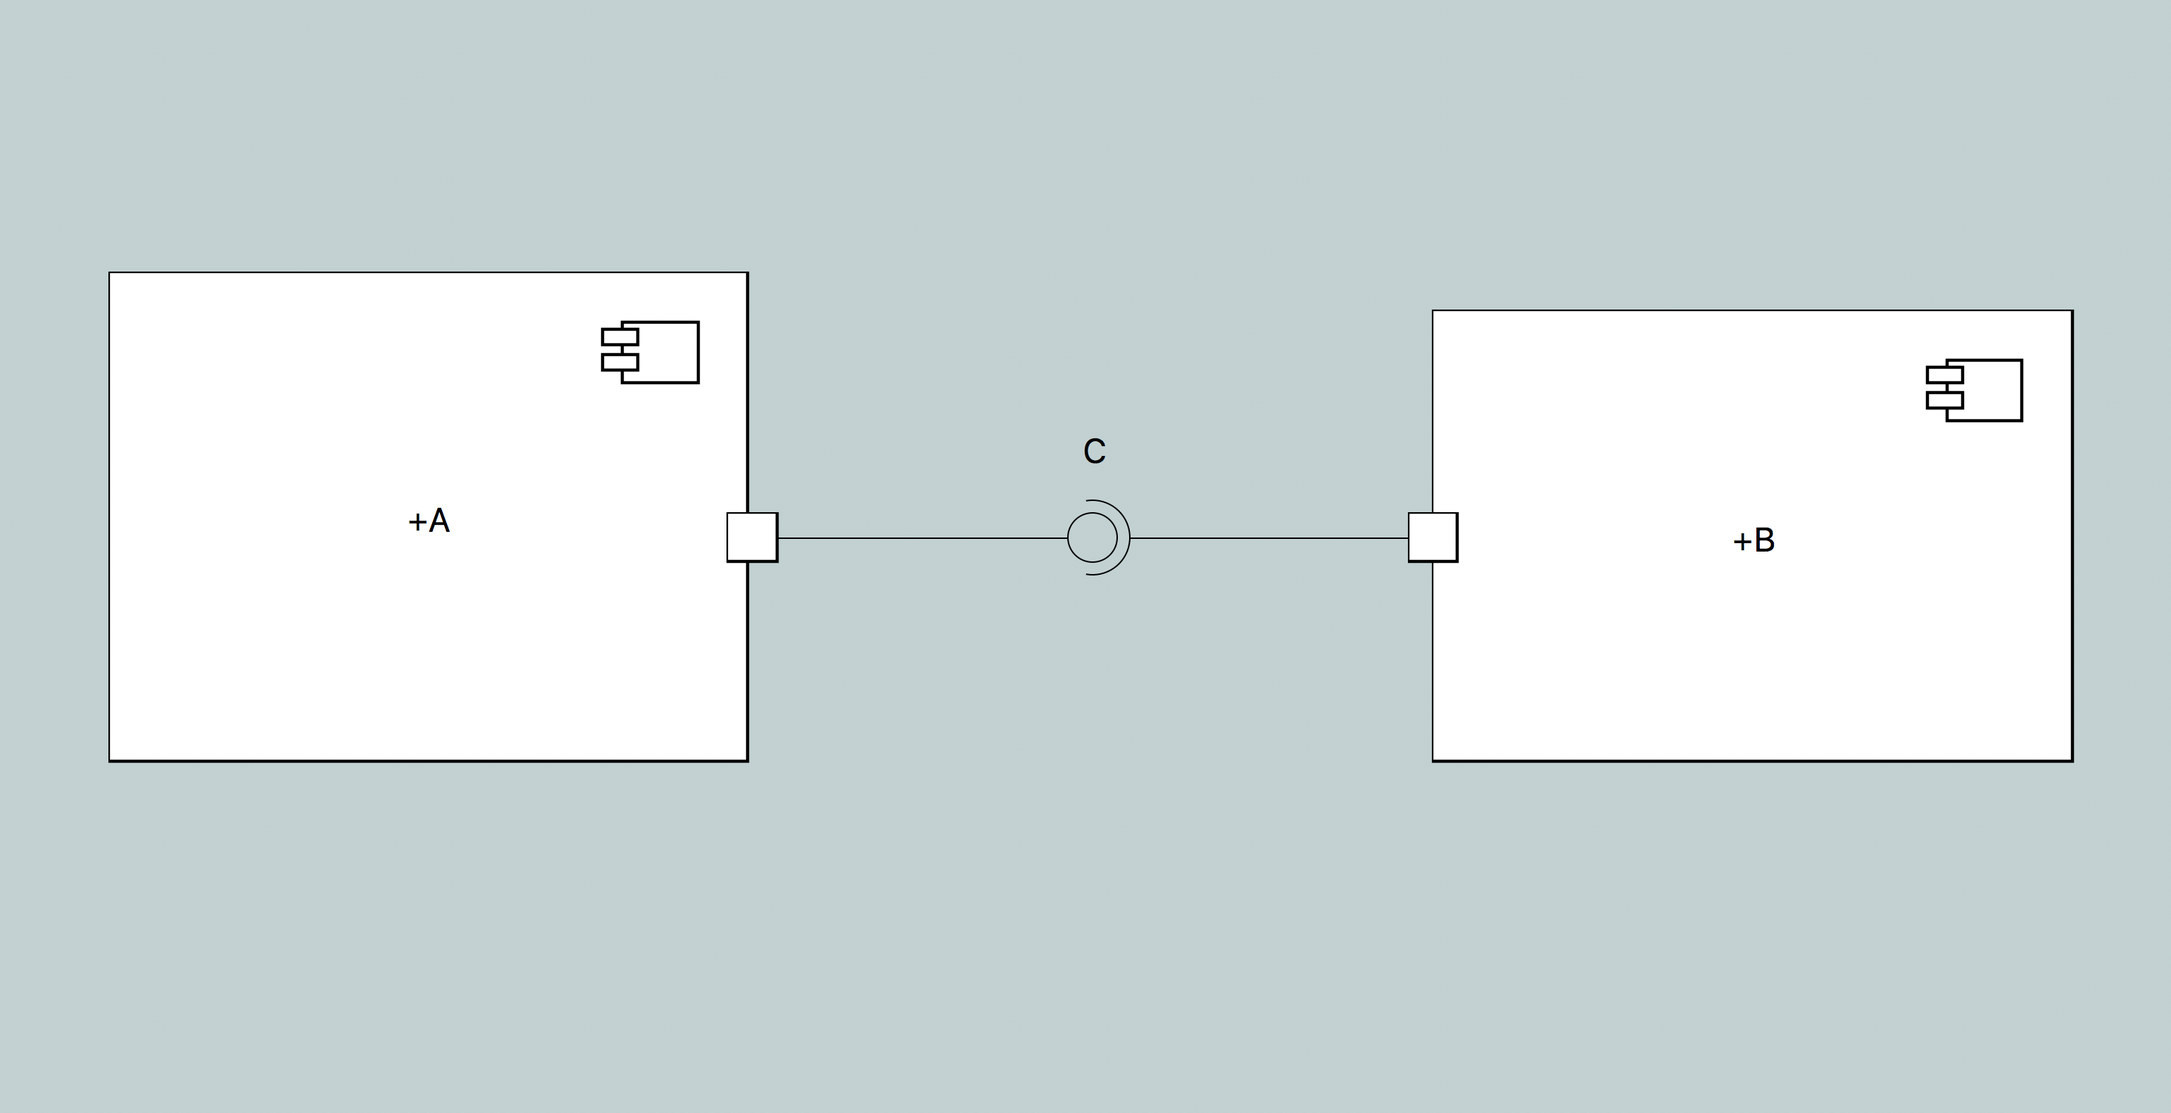
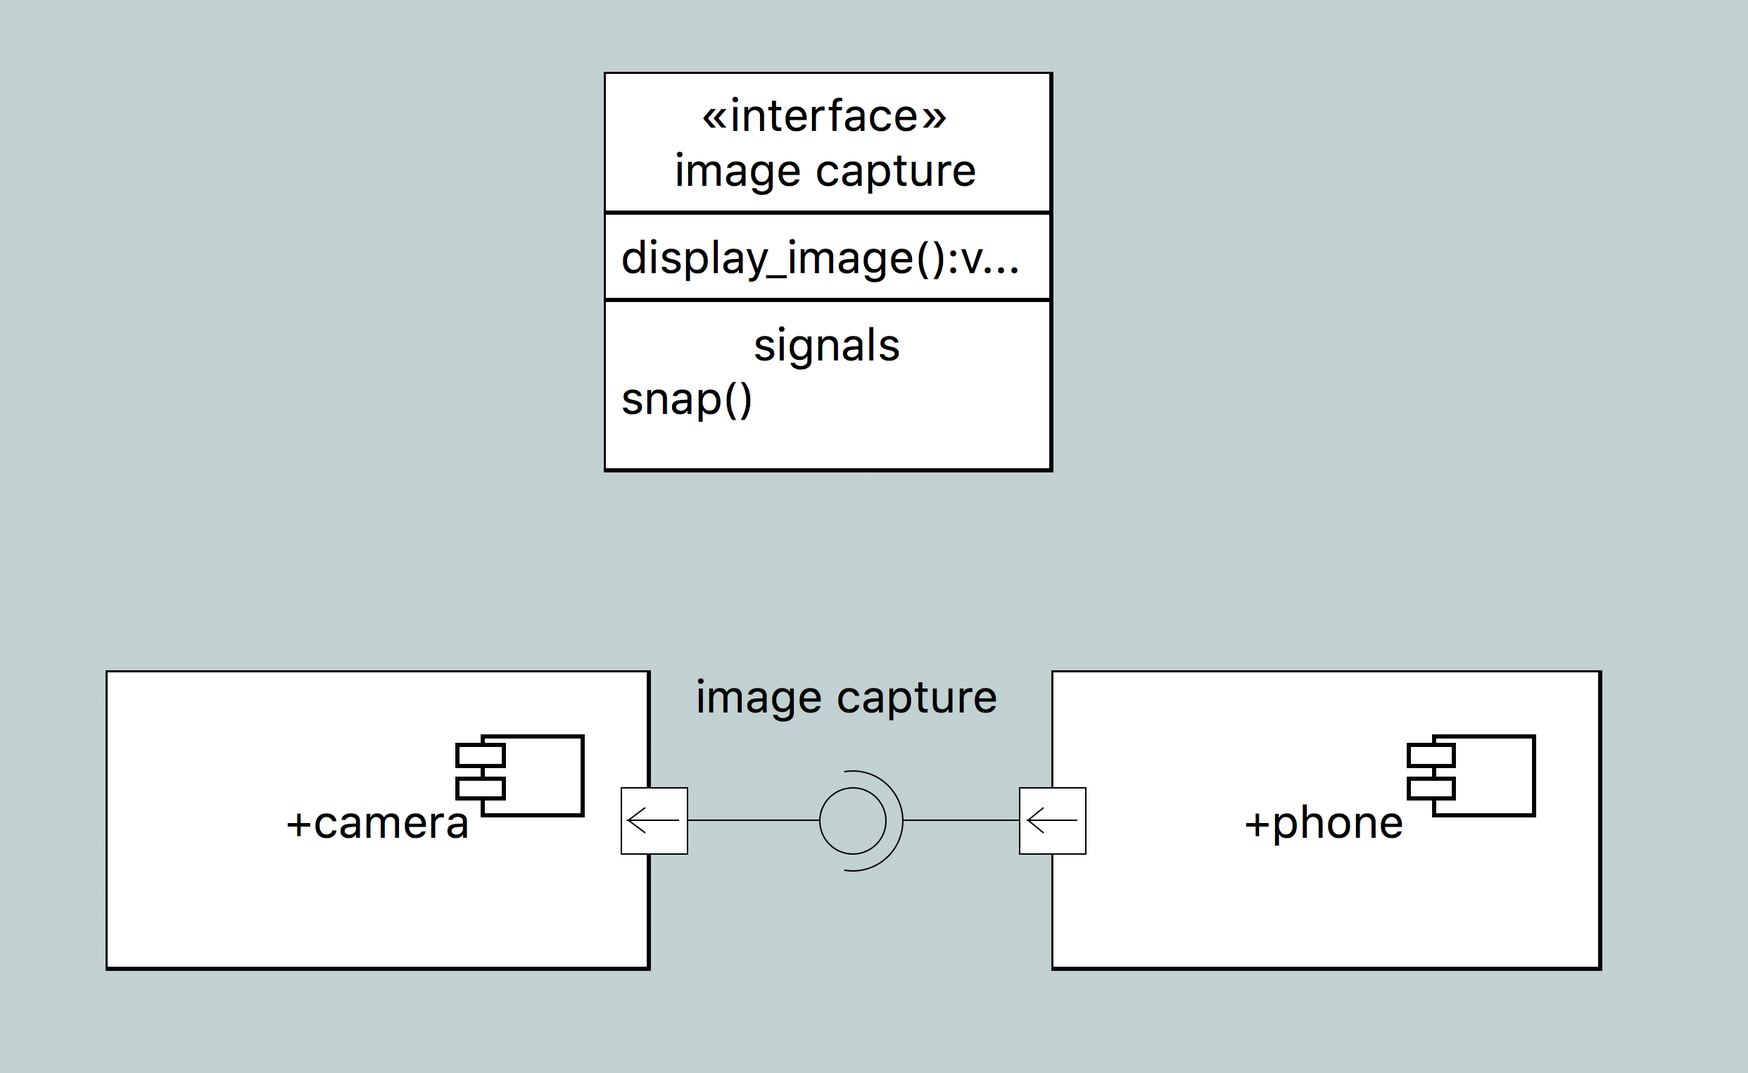
job #9538 updated documentation

diff --git a/doc/notes/9538_ipc/9538_channel_modeling.md b/doc/notes/9538_ipc/9538_channel_modeling.md
@@ -11,9 +11,13 @@ This work is licensed under the Creative Commons CC0 License
 
 Channel communication is an important issue in modeling systems. Modeling
 communication can raise the level of abstraction and clearly separate
-architecture from application
+architecture from application.
 
 ### 2. Document references
+
+2.1 [MC3020 (xtUML C compiler)](https://github.com/xtuml/mc/tree/master/arc)  
+2.2 [webchat model](https://github.com/xtuml/models/tree/9538_ipc_experiment/applications/webchat)  
+2.3 [socket model and ChannelSpecification interface](https://github.com/xtuml/mc/tree/9538_ipc_experiment/model/mcshared) -- `mcshared` model under "mcshared::channel"  
 
 ### 3. Background
 
@@ -26,49 +30,59 @@ designers encode architectural patterns and details into model compilers which
 consistently produce code for a target architecture over a long time on any
 number of application models.
 
-It is good to maintain separation of concerns in modeling. Architectural details
-belong in the compiler, and the application model should remain clearly focused
-on the application domain. Unfortunately, in the area of message passing, the
-concerns can all too easily get mixed. A communication channel is central to
-many applications. Devices must communicate with a hub, an application could
-consist of many distributed nodes on a network, process must communicate through
-host operating system. Communication protocols arise in application models
-alongside higher level domain models. Should they be in the application models
-or the model compiler? Modeling communication protocols provides many benefits
-including clarity and more natural understanding and debugging. Encoding
-communication protocols into a model compiler facilitates reuse and protects the
-integrity of application models.
+It is good to maintain separation of concerns in modeling. Architectural
+details belong in the compiler, and the application model should remain clearly
+focused on the domain requirements. Unfortunately, in the area of message
+passing, the concerns can easily get mixed. A communication channel is central
+to many applications. Devices must communicate with a hub, an application could
+consist of many distributed nodes on a network, processes must communicate
+through a host operating system. Communication protocols arise in application
+models alongside higher level application concerns. Should they be in the
+application models or the model compiler? Modeling communication protocols
+provides the benefits of clarity and aided understanding and debugging.
+Encoding communication protocols into a model compiler facilitates reuse and
+protects the integrity of application models.
 
-We can see a logical third layer of abstraction appearing in the xtUML modeling
+We can see a logical third layer of abstraction appearing in this modeling
 paradigm. We need a way to model applications (highest layer), model
 communication protocols separately (middle layer), and produce a system from
-both using a model compiler (lowest layer).
+both using a model compiler (lowest layer). This is not a new phenomenon in
+modeling. In the Shlaer-Mellor method, lower level reusable domains are called
+"service domains". Consider The following architectural diagarm of a weather
+station model:
+
+![domains.png](domains.png)
+
+In this diagram, the domains are organized into application and service domains
+with the architecture below both. You can see how the service domains may be
+modeled, but are logically not at the same level of abstraction as an
+application.
 
 ### 4. Benefits of abstract communication
 
 4.1 Portability
 
-One of the biggest benefits of modeling communication in xtUML itself is the
-ease of use across multiple applications _and_ multiple architectures. If
-protocols are modeled in xtUML the same way as application models, the model
+One of the most compelling benefits of modeling communication in xtUML itself
+is the ease of use across multiple applications _and_ multiple architectures.
+If protocols are modeled in xtUML the same way as application models, the model
 compiler is capable of producing code for the target architecture in the same
 way. Imagine building one model of HTTP and applying the model to an interface
-between a phone app and a wireless security camera, then applying it to a
+between a phone app and a wireless security camera, then applying it again to a
 modeled web service running on a Linux server.
 
 4.2 Abstraction
 
-Communication is a complex and often stateful application domain. All of the
-benefits of using xtUML in modeling systems apply directly to modeling
-communication. Raising the level of abstraction removes silly errors and allows
-engineers to reason about the completeness and correctness of models.
+Communication is a complex and often stateful domain. All of the benefits of
+using xtUML in modeling systems apply equally to modeling communication.
+Raising the level of abstraction removes silly errors and allows engineers to
+reason about the completeness and correctness of models.
 
 4.3 Flexibility
 
 In complement to section 4.1, modeling communication in xtUML provides maximum
 flexibility. Instead of a finite number of communication options provided by a
 model compiler, a infinite number of communication implementations is available
-and limited only by the imagination of the engineer who models them.
+and limited only by the imagination of the engineers who model them.
 
 ### 5. Logical implementation of data channels
 
@@ -78,54 +92,73 @@ below:
 
 ![system1.png](system1.png)
 
-In this system, `A` and `B` are connected over an interface `C`. They are able
-to pass messages back and forth through simple call and return, however if `A`
-and `B` are running in different processes or even on different machines, there
-would be no way to communicate. Now consider this diagram:
+In this system, `camera` and `phone` are connected over an interface `image
+capture`. They are able to pass messages back and forth through simple call and
+return, however if `camera` and `phone` are running in different processes or
+even on different machines, there would be no way to communicate. Now consider
+this diagram:
 
 ![system2.png](system2.png)
 
-In this new system, the analyst has interposed `transport` between `A` and `B`.
-Now the analyst can implement any delivery mechanism inside `transport`. `A` and
-`B` maintain the ability to talk on interface `C` and the problem is solved.
+In this new system, the analyst has interposed `bluetooth` between `camera` and
+`phone`.  The analyst can implement the delivery mechanism inside `bluetooth`.
+`camera` and `phone` maintain the ability to talk on interface `image capture`,
+and the problem seems to be solved.
 
 This solution although effective is not optimal for two reasons. Firstly, the
-analyst has polluted his application model with architectural details. The
-`transport` component is not at the same logical level as the abstract system
-model and does not belong in a diagram alongside `A` and `B`. Logically, `A` and
-`B` communicate over interface `C`, however this solution exposes low-level
-particulars about how messages are actually passed in the system. Second, the
-`transport` component is forced to be specific and cannot be easily reused in
-other application models. To work properly, `transport` must implement the `C`
-interface as a provider and requirer. Although `transport` could be designed
-such that the internal behavior could be copied into any number of in-between
-components, this is not the optimal solution.
+analyst has polluted his application model with service domain details. The
+`bluetooth` component is not at the same logical level as the abstract system
+model and does not belong in a diagram alongside `camera` and `phone`.
+Logically, `camera` and `phone` communicate over interface `image capture`,
+however this solution exposes low-level particulars about how messages are
+actually passed in the system. Secondly, the `bluetooth` component is forced to
+be specific to the interface it implements and cannot easily be reused in other
+application models. To work properly, `bluetooth` must implement the `image
+capture` interface as a provider and requirer. Although `bluetooth` could be
+designed such that the internal behavior could be copied into any number of
+in-between components, this is not the optimal solution.
 
-How can we apply the best of both systems? Consider the following diagram:
+Examine this system model of a weather station with many components:
+
+![wx.png](wx.png)
+
+Although complex, the connections between the components are clear and easy to
+understand.  Now imagine that we wanted to model the delivery mechanisms for
+each interface and interposed a component reference for each interface:
+
+![wx2.png](wx2.png)
+
+Not only does this more than double the number of component references on our
+diagram, but it makes it much more difficult to see which components
+communicate with one another at a glance.
+
+How can we combine the concept of an in-between component and apply it to our
+models such that they appear as the first `phone`/`camera` system?
 
 ![system3.png](system3.png)
 
 This diagram represents **_logically_** the proposed method of modeling data
-channels. Like the second diagram, `transport` is interposed between `A` and
-`B`, and `A` and `B` both continue to talk across interface `C`. In this
-solution, additional components `provider marshalling` and `requirer
-marshalling` (marked in gray) are inserted between `A` and `transport` and `B`
-and `transport` respectively. These "components" are generated by the model
-compiler at the time of compilation and placed between `A` and `B` and the
-selected delivery component. Note that `transport` implements a new interface
-`ChannelSpecification`. This interface remains consistent across every component
-which models delivery and therefore facilitates reuse of these delivery
-components. The "marshalling" components are generated by the model compiler and
-their responsibility is to pack the messages with parameters into a consistent
-format and pass them through the `ChannelSpecification` interface to the
-delivery implementation component. On the other side, they unpack the data and
-reconstruct a call across the interface `C`.
+channels. Like the second diagram, `bluetooth` is interposed between `camera`
+and `phone`, and `camera` and `phone` both continue to talk across interface
+`image capture`. In this solution, additional components `provider marshalling`
+and `requirer marshalling` (marked in teal) are inserted between `camera` and
+`bluetooth` and `phone` and `bluetooth` respectively. These "components" are
+generated by the model compiler at the time of compilation and placed between
+`camera` and `phone` and the selected delivery component. Note that `bluetooth`
+implements a new interface `ChannelSpecification`. This interface remains
+consistent across every component which models delivery and therefore
+facilitates reuse of these delivery components. The "marshalling" components
+are generated by the model compiler, and their responsibility is to pack the
+messages with parameters into a consistent format and pass them through the
+`ChannelSpecification` interface to the delivery implementation component. On
+the other side, they unpack the data and reconstruct a call across the
+interface `image capture`.
 
 Using this pattern an engineering team could model system that looks like the
-first diagram, model a transport component, and then mark the interface as being
-"implemented by" the transport component. At compile time, code would be
-generated to fill the gaps and connect `A` and `B` to the transport component
-using the `ChannelSpecification` interface.
+first diagram, model a transport component, and then mark the interface as
+being "implemented by" the transport component. At compile time, code would be
+generated to fill the gaps and connect `camera` and `phone` to the transport
+component using the `ChannelSpecification` interface.
 
 ### 6. The `ChannelSpecification` interface
 
@@ -133,45 +166,43 @@ using the `ChannelSpecification` interface.
 
 The `ChannelSpecification` interface provides the following signals and
 operations:
-* `request_sgn` 
-* `request_op`
+* `post_sgn` 
+* `post_op`
 * `deliver_sgn`
 * `deliver_op`
 * `initialize`
 
 6.1 Implementation
 
-A component that models a communication channel is expected to have at least two
-provided ports `INTERFACE_REQUIRER` and `INTERFACE_PROVIDER`, both formalized to
-the `ChannelSpecification` interface.
+A component that models a communication channel is expected to have at least
+two provided ports `REQ` and `PROV`, both formalized to the
+`ChannelSpecification` interface.
 
-6.1 `request_sgn`
+6.1 `post_sgn`
 
-`request_sgn` is a to-provider signal that must be implemented by the ports of
-the communication component. The parameters are as follows:  
-* `name`: an identifier for the message that is being passed (name of the
-  message)  
-* `parameters`: A data structure that contains a list of structured parameters
-  consisting of a data buffer and an integral size  
-* `to`: an identifier for the sender of the message  
-* `from`: an identifier for the target of the message  
+`post_sgn` is a to-provider signal that must be implemented by the ports of the
+communication component. The parameters are as follows:  
+* `data`: A data structure that contains a data buffer and an integral size  
+* `target`: an identifier for the target of the message  
+* `origin`: an identifier for the origin of the message  
 
-On receipt of the `request_sgn` signal, the implementation is expected to pass
-the data and invoke `deliver_sgn` on the target. For example, `A` calls
-interface `C` signal `foo`. `A` is the provider, so `request_sgn` on the
-`INTERFACE_PROVIDER` port of the implementation component will be invoked. In
-the most simple case, the body of `request_sgn` can directly invoke
-`deliver_sgn` on the `INTERFACE_REQUIRER` port. In practice, the data will pass
-through some delivery mechanism before reaching the requirer side.
+On receipt of the `post_sgn` signal, the implementation is expected to pass the
+data and invoke `deliver_sgn` on the target. For example, `phone` calls
+interface `image capture` signal `snap`. `phone` is the requirer, so `post_sgn`
+on the `REQ` port of the implementation component will be invoked. In the most
+simple case, the body of `post_sgn` can directly invoke `deliver_sgn` on the
+`PROV` port. In practice, the data will pass through some delivery mechanism
+(e.g. a bluetooth enabled hardware interface) before reaching the requirer
+side.
 
-6.2 `request_op`
+6.2 `post_op`
 
-`request_op` is a to-provider operation that must be implemented by the ports of
-the communication component. Its parameters are the same as `request_sgn` and
-its semantics are the same except that it is a synchronous message that must
-return a value. The value that is returned is a list of data values that
-represent the return value and the values of the "by reference" parameters of
-the original operation.
+`post_op` is a to-provider operation that must be implemented by the ports of
+the communication component. Its parameters are the same as `post_sgn` and its
+semantics are the same except that it is a synchronous message that must return
+a value. The value that is returned is a list of data values that represent the
+return value and the values of the "by reference" parameters of the original
+operation.
 
 6.3 `deliver_sgn`
 
@@ -179,32 +210,35 @@ the original operation.
 compiler. When this signal is invoked from within a channel implementation
 component, the parameters are reconstructed from the data values and the
 original signal is called on the application component. The parameters are
-identical to `request_sgn` and `request_op`.
+identical to `post_sgn` and `post_op`.
 
 6.4 `deliver_op`
 
 `deliver_op` is a from-provider operation that is implemented in the model
-compiler. Like `request_op`, it has a return value that represents the return
+compiler. Like `post_op`, it has a return value that represents the return
 value of the original signal, and the values of the "by reference" parameters.
 
 6.5 `initialize`
 
 `initialize` is a to-provider signal that can be optionally implemented by the
 ports of the communication component. The compiler places an invocation of this
-signal in the initialization routine of both application components. This signal
-allows any setup to occur before signals are sent across the interfaces. Its
-parameters are as follows:  
+signal in the initialization routine of both application components. This
+signal allows any setup to occur before signals are sent across the interfaces.
+Its parameters are as follows:  
 * `name`: an identifier for the port which is being initialized  
 * `peer_name`: an identifier for the port with which the initialized port is
   satisfied  
 These parameters allow the communication component to properly map signals to
-the correct destinations.
+the correct destinations. Any additional data that is needed to complete
+initialization (e.g. addresses, ports, MAC addresses) is the concern of the
+modeler -- that is, the model compiler does not pass any additional data
+parameters.
 
 ### 7. Marshalling/Unmarshalling
 
 One important aspect of communication is the marshalling (packing) of data into
-a consistent form suitable for messaging passing. There are many ways to do
-this. A previous prototype of structured messaging over sockets in the C model
+a consistent form suitable for message passing. There are many ways to do this.
+A previous prototype of structured messaging over sockets in the C model
 compiler generated a C `struct` for each interface message. Parameters were
 loaded into the `struct` and on the receiving end, the data was cast into a
 variable of the `struct` type. This works well and is intuitive and readable,
@@ -213,20 +247,24 @@ Another way is to treat arbitrary data as strings and pack the bytes into a
 character array. This prevents types from proliferating and is simple, but can
 waste space on the stack for statically allocated strings.
 
+Other methods of implementing marshalling can be used. In this design, the
+marshalling is a concern of the model compiler and not the model of
+communication itself.
+
 ### 8. Case study: sockets and web chat
 
 This method of modeling communication channels at an abstract level has been
-prototyped in MC3020. A component called `socket` has been introduced which
-models communication using the POSIX socket API and an application "webchat" has
-been modeled to demonstrate the technique.
+prototyped in MC3020 [2.1]. A component called `socket` has been introduced
+which models communication using the POSIX socket API and an application
+"webchat" has been modeled to demonstrate the technique.
 
 8.1 webchat
 
 The webchat application consists of two simple components. The `user` component
 represents a user connected to the chat server. The `chat` component represents
 the chat server backend itself. Note that the `chat` component is the provider
-and the `user` component is the requirer. This application is designed such that
-many `user`s can connect and communicate through one `chat`
+and the `user` component is the requirer. This application is designed such
+that many `user`s can connect and communicate through one `chat`
 
 ![webchat.png](webchat.png)
 
@@ -247,9 +285,8 @@ satisfaction of interfaces. The satisfaction label is used as the identifier
 8.2 `socket`
 
 The socket component follows the pattern of an implementation of a channel
-according to the interface specification above -- it has two provided
-(`INTERFACE_PROVIDER` and `INTERFACE_REQUIRER`) both formalized to the
-`ChannelSpecification` interface.
+according to the interface specification above -- it has two provided ports
+(`PROV` and `REQ`) both formalized to the `ChannelSpecification` interface.
 
 ![socket.png](socket.png)
 
@@ -258,15 +295,15 @@ component
 
 ![socketclasses.png](socketclasses.png)
 
-State machines for data sockets, requests, and request handlers (clients and
-servers) model the behavior and life cycles of the abstract objects
+State machines for data sockets, requests, and couriers (clients and servers)
+model the behavior and life cycles of the abstract objects
 
 data socket
 ![datasocketsm.png](datasocketsm.png)
 request
 ![requestsm.png](requestsm.png)
-request handler
-![handlersm.png](handlersm.png)
+courier
+![couriersm.png](couriersm.png)
 
 An external entity called `socket` provides the native bridge to the POSIX
 socket API and other system calls like `select` and `close`
@@ -288,6 +325,6 @@ understanding. See the following table:
 
 This method of modeling the delivery of messages on an interface allows
 engineers to model communication at the abstract level while avoiding polluting
-application models with architectural details.
+application models with service domain details.
 
 ### End
